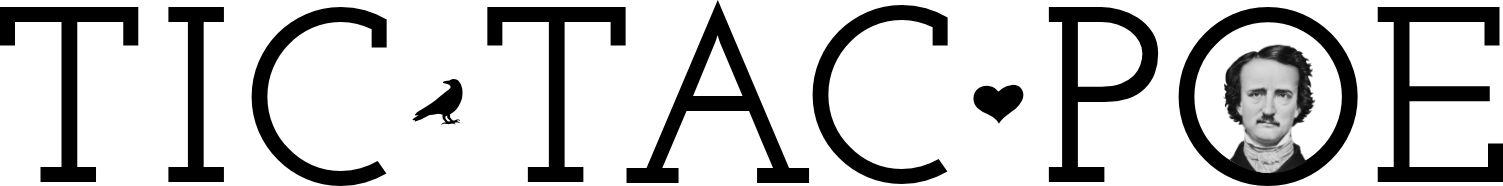
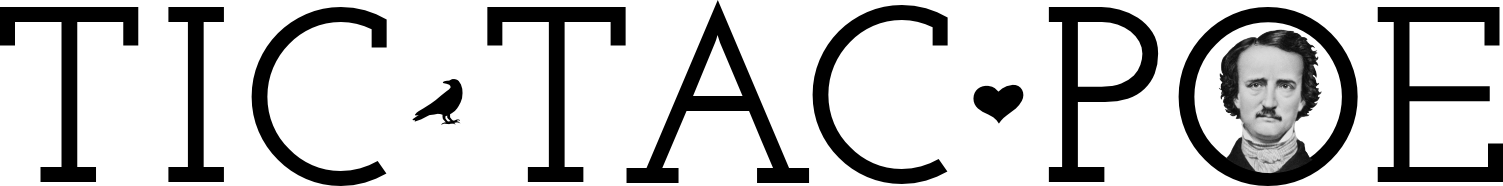
Update game title sizing

Changed region(s): [[0.7957, 0.1613, 0.8876, 0.914]]

diff --git a/styles.css b/styles.css
@@ -12,11 +12,14 @@
 }
 
 main {
-  background-image: url("assets/background-wallpaper.jpg");
+  /* background-image: url("assets/background-wallpaper.jpg"); */
+  background: linear-gradient(rgb(225, 225, 225), rgb(0, 0, 0));
   background-size: cover;
   width: 100vw;
   height: 100vh;
   display: flex;
+  justify-content: center;
+  box-shadow: inset 0 0 30px 15px black;
 }
 
 .inset-panel {
@@ -148,7 +151,8 @@ main {
   justify-content: center;
   align-items: center;
   padding: 15px 0;
-  border: solid 2px black;
+  border: solid black thick;
+  border-style: double;
   border-radius: 12px;
   box-shadow: 3px 3px 5px 1px rgb(107, 107, 107);
 }
@@ -229,12 +233,11 @@ main {
 /* ------ Game Title ------ */
 
 .title-background {
-  max-width: 750px;
   display: flex;
   flex-direction: column;
   justify-content: center;
   align-items: center;
-  padding: 1.5vw;
+  padding: 1vw 2vw;
 }
 
 .title-box {
@@ -243,13 +246,14 @@ main {
   justify-content: center;
   align-items: center;
   padding: 1vw;
-  border: solid 2px black;
+  border: solid black thick;
+  border-style: double;
   border-radius: 10px;
   box-shadow: 3px 3px 5px 1px rgb(107, 107, 107);
 }
 
 .title-box > img {
-  width: 35vw;
+  width: 25vw;
 }
 
 /* ------ Game Board ------ */
@@ -259,7 +263,7 @@ main {
   display: flex;
   justify-content: center;
   align-items: center;
-  padding: 0px;
+  padding: 2vw 0;
 }
 
 .game-board {
@@ -268,7 +272,6 @@ main {
   display: grid;
   grid-template-columns: repeat(3, 0fr);
   justify-content: center;
-  margin: 4vw;
   padding: 20px;
   border: solid 2px black;
   border-radius: 10px;
@@ -282,9 +285,9 @@ main {
 .board-square {
   background-color: rgba(255, 255, 255, 0);
   width: 8vw;
-  max-width: 200px;
+  max-width: 175px;
   height: 8vw;
-  max-height: 200px;
+  max-height: 175px;
   display: flex;
   justify-content: center;
   align-items: center;
